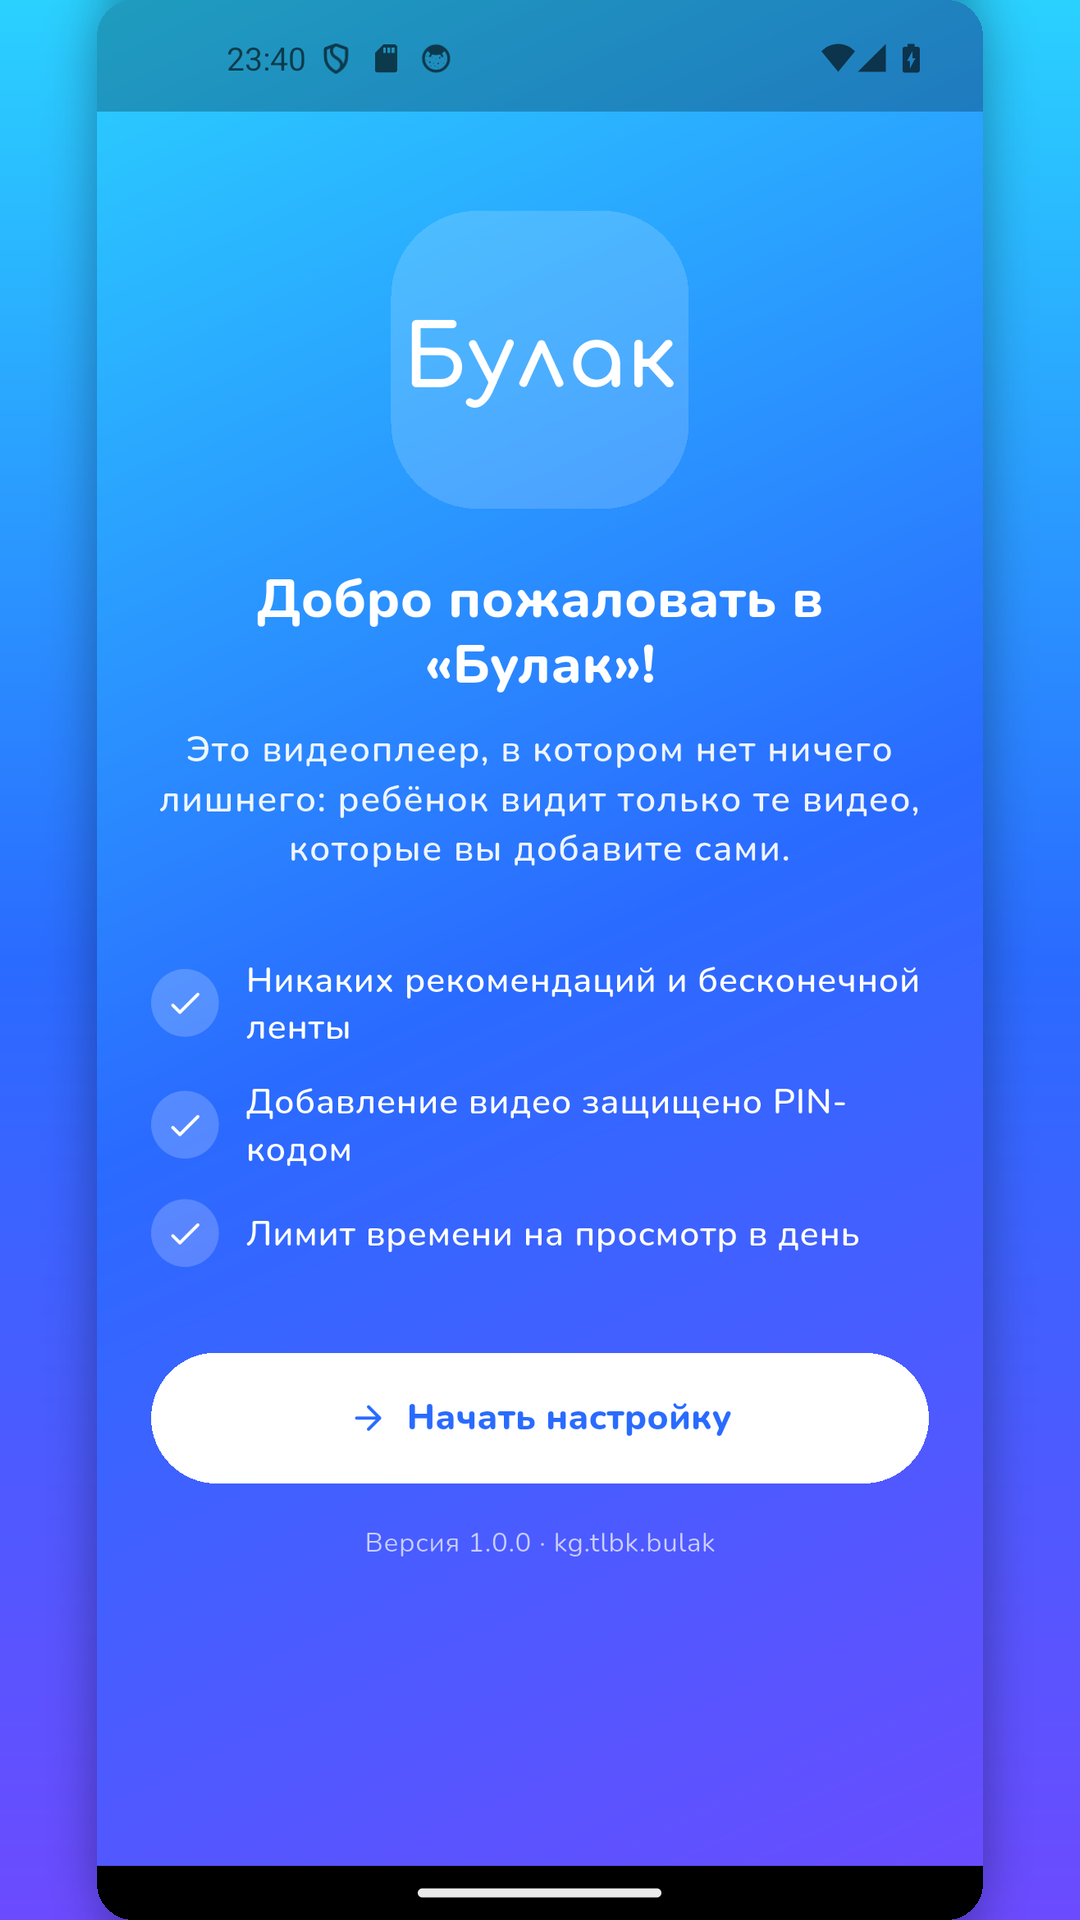
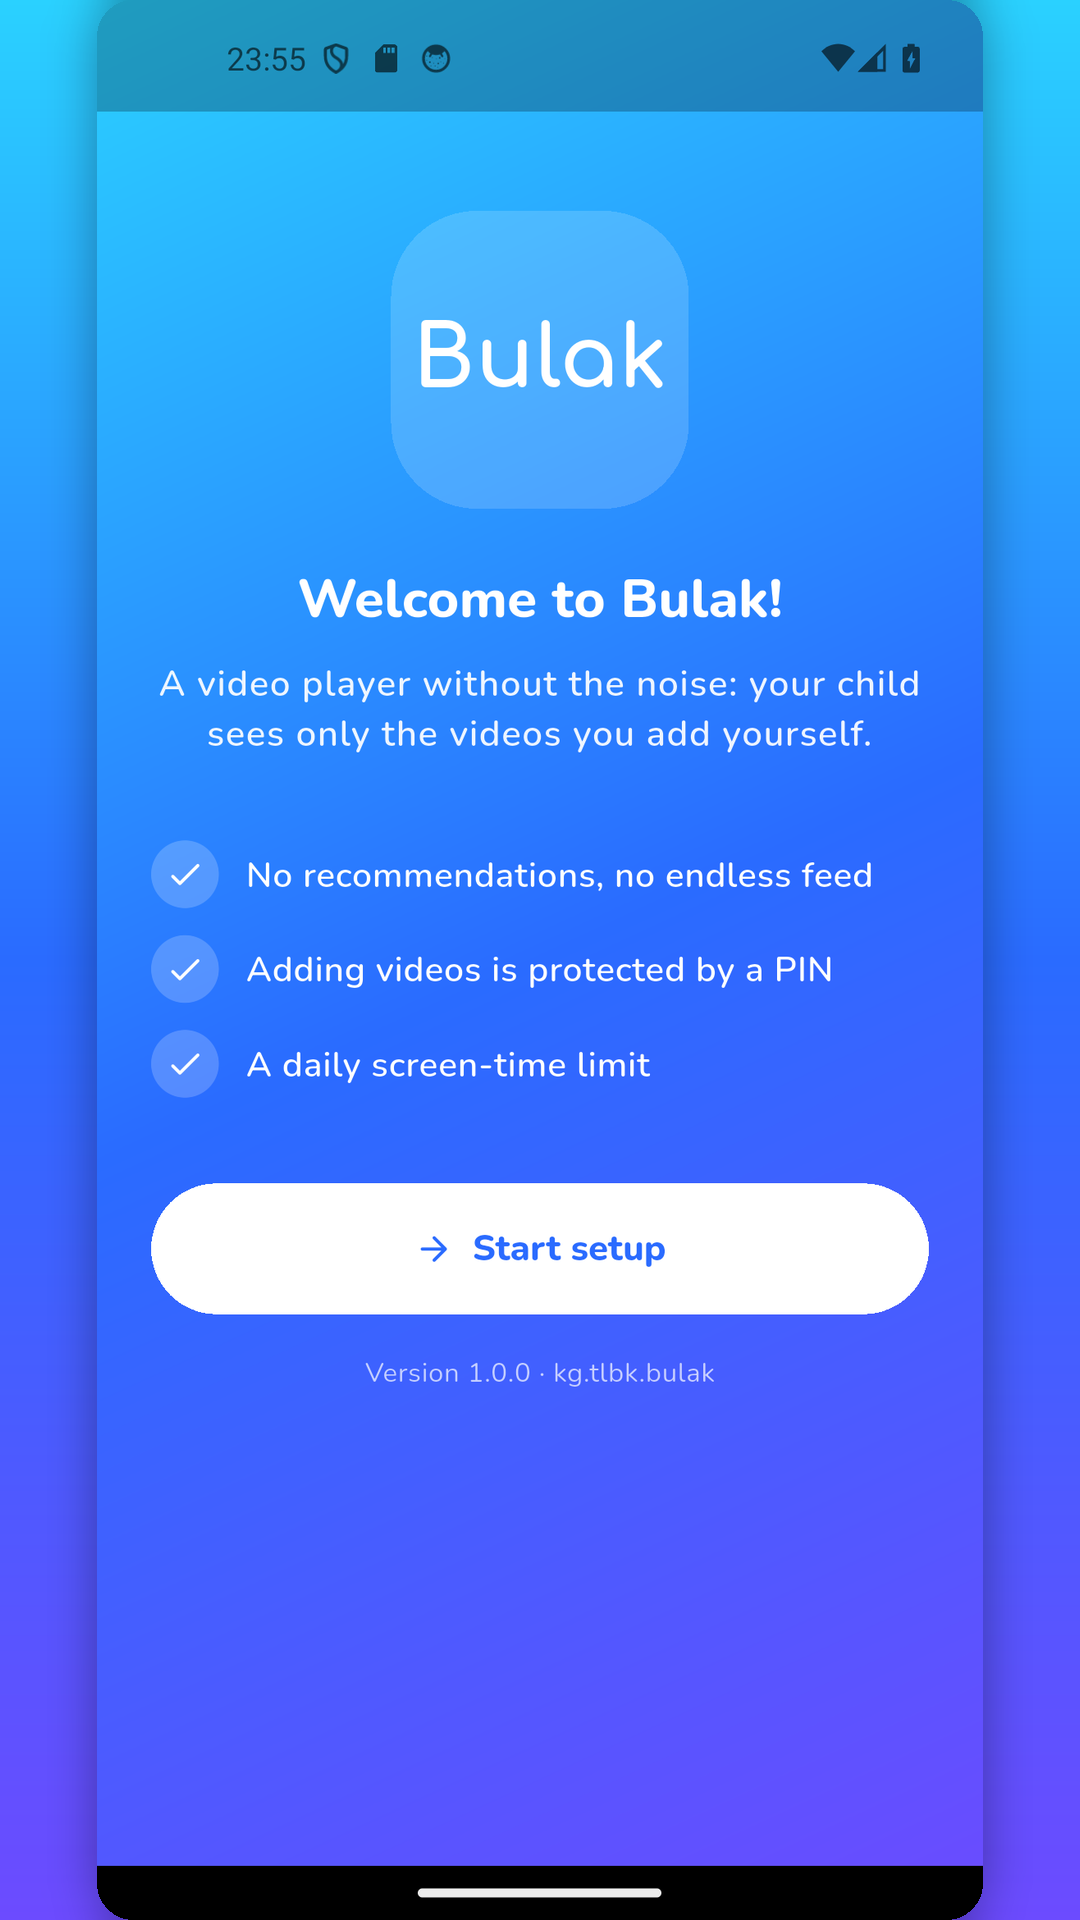
feat: скриншоты для магазинов и локализация минут
Сняты настоящие экраны приложения на эмуляторе (RU и EN), из них собраны
наборы для Google Play (1080x1920) и App Store (1290x2796) — по 8 кадров.
Инструменты съёмки лежат в tools/screenshots.

Заодно исправлена последняя строка без перевода: подписи минут на экране
лимита времени показывались как «мин» и в английском интерфейсе.

Changed region(s): [[0.1222, 0.2812, 0.8556, 0.8125], [0.3667, 0.1562, 0.6111, 0.2188]]

diff --git a/lib/ui/parent/time_limit_page.dart b/lib/ui/parent/time_limit_page.dart
@@ -74,7 +74,9 @@ class TimeLimitPage extends StatelessWidget {
                     for (var index = 0; index < options.length; index++)
                       ChoiceChip(
                         label: Text(
-                          options[index] == 0 ? '∞' : '${options[index]} мин',
+                          options[index] == 0
+                              ? '∞'
+                              : strings.minutesShort(options[index]),
                         ),
                         selected: index == currentIndex,
                         onSelected: (_) =>
@@ -115,8 +117,10 @@ class TimeLimitPage extends StatelessWidget {
                 Text(
                   settings.hasDailyLimit
                       ? '${(settings.watchedSecondsToday / 60).floor()} / '
-                            '${settings.dailyLimitMinutes} мин'
-                      : '${(settings.watchedSecondsToday / 60).floor()} мин',
+                            '${strings.minutesShort(settings.dailyLimitMinutes)}'
+                      : strings.minutesShort(
+                          (settings.watchedSecondsToday / 60).floor(),
+                        ),
                   style: theme.textTheme.bodyMedium,
                 ),
                 if (settings.isLimitReached) ...[

diff --git a/lib/core/l10n/app_strings.dart b/lib/core/l10n/app_strings.dart
@@ -323,6 +323,9 @@ class AppStrings {
   String timeLimitMinutes(int minutes) => _isEn
       ? '$minutes minutes a day'
       : '$minutes ${plural(minutes, 'минута', 'минуты', 'минут')} в день';
+
+  /// Короткая подпись «30 мин» / «30 min» — для кнопок и счётчиков.
+  String minutesShort(int minutes) => _isEn ? '$minutes min' : '$minutes мин';
   String get timeLimitTodayUsed =>
       _pick('Сегодня просмотрено', 'Watched today');
   String get timeLimitResetToday =>

diff --git a/tools/screenshots/seed_emulator.py b/tools/screenshots/seed_emulator.py
@@ -19,6 +19,7 @@ text` невозможно — эта команда понимает тольк
 from __future__ import annotations
 
 import json
+import re
 import subprocess
 import sys
 from pathlib import Path
@@ -41,32 +42,31 @@ ADB = str(
 )
 
 # Коллекции, которые должны появиться в приложении.
-COLLECTIONS = [
-    {
-        "id": "demo-toons",
-        "title": "Мультики",
-        "emoji": "🧸",
-        "colorIndex": 0,
-        "sortOrder": 0,
-        "createdAt": "2026-09-20T10:00:00.000",
-    },
-    {
-        "id": "demo-music",
-        "title": "Музыка",
-        "emoji": "🎵",
-        "colorIndex": 1,
-        "sortOrder": 1,
-        "createdAt": "2026-09-21T10:00:00.000",
-    },
-    {
-        "id": "demo-favourite",
-        "title": "Любимое",
-        "emoji": "⭐",
-        "colorIndex": 4,
-        "sortOrder": 2,
-        "createdAt": "2026-09-22T10:00:00.000",
-    },
-]
+def collections_for(locale: str) -> list[dict]:
+    titles = (
+        [
+            ("demo-toons", "Мультики", "🧸", 0),
+            ("demo-music", "Музыка", "🎵", 1),
+            ("demo-favourite", "Любимое", "⭐", 4),
+        ]
+        if locale == "ru"
+        else [
+            ("demo-toons", "Cartoons", "🧸", 0),
+            ("demo-music", "Music", "🎵", 1),
+            ("demo-favourite", "Favourites", "⭐", 4),
+        ]
+    )
+    return [
+        {
+            "id": item_id,
+            "title": title,
+            "emoji": emoji,
+            "colorIndex": color,
+            "sortOrder": order,
+            "createdAt": f"2026-09-2{order}T10:00:00.000",
+        }
+        for order, (item_id, title, emoji, color) in enumerate(titles)
+    ]
 
 # Настройки: дневной лимит, чтобы на главной был виден баннер с остатком.
 SETTINGS_EXTRA = {
@@ -95,6 +95,10 @@ def main() -> int:
     # это нужно, чтобы снять экран приветствия.
     reset_onboarding = "--reset-onboarding" in sys.argv
 
+    # --locale en переключает интерфейс на английский — для английского
+    # листинга нужны снимки именно на том языке, который увидит пользователь.
+    locale = "en" if "--locale" in sys.argv and "en" in sys.argv else None
+
     adb("root")
     adb("shell", "am", "force-stop", PACKAGE)
 
@@ -103,32 +107,44 @@ def main() -> int:
         print("Не удалось прочитать настройки приложения. Запустите его один раз.")
         return 1
 
+    def unescape(value: str) -> str:
+        return (
+            value.replace("&quot;", '"')
+            .replace("&apos;", "'")
+            .replace("&lt;", "<")
+            .replace("&gt;", ">")
+            .replace("&amp;", "&")
+        )
+
+    # Читаем все сохранённые значения: список видео и прочие ключи трогать
+    # нельзя, иначе библиотека, собранная вручную, будет потеряна.
+    stored: dict[str, str] = {}
+    for match in re.finditer(
+        r'<string name="flutter\.([^"]+)">(.*?)</string>', raw, re.DOTALL
+    ):
+        stored[match.group(1)] = unescape(match.group(2))
+
     # Достаём текущие настройки, чтобы не потерять PIN-код родителя.
-    start = raw.find(">", raw.find("bulak.settings.v1")) + 1
-    end = raw.find("</string>", start)
-    settings = json.loads(
-        raw[start:end]
-        .replace("&quot;", '"')
-        .replace("&amp;", "&")
-        .replace("&lt;", "<")
-        .replace("&gt;", ">")
-        .replace("&apos;", "'")
-    )
+    settings = json.loads(stored.get("bulak.settings.v1", "{}"))
     settings.update(SETTINGS_EXTRA)
     settings["onboardingCompleted"] = not reset_onboarding
+    if locale is not None:
+        settings["localeCode"] = locale
 
-    def entry(name: str, value: str) -> str:
-        return f'    <string name="flutter.{name}">{escape(value)}</string>'
+    stored["bulak.settings.v1"] = json.dumps(settings, ensure_ascii=False)
+    stored["bulak.collections.v1"] = json.dumps(
+        collections_for(locale or settings.get("localeCode") or "ru"),
+        ensure_ascii=False,
+    )
 
     xml = "\n".join(
         [
             "<?xml version='1.0' encoding='utf-8' standalone='yes' ?>",
             "<map>",
-            entry("bulak.settings.v1", json.dumps(settings, ensure_ascii=False)),
-            entry(
-                "bulak.collections.v1",
-                json.dumps(COLLECTIONS, ensure_ascii=False),
-            ),
+            *[
+                f'    <string name="flutter.{name}">{escape(value)}</string>'
+                for name, value in stored.items()
+            ],
             "</map>",
             "",
         ]

diff --git a/tools/screenshots/build_store_screenshots.py b/tools/screenshots/build_store_screenshots.py
@@ -25,7 +25,6 @@ BULAK_SHOTS (по умолчанию — `screenshots/raw` внутри репо
 
 from __future__ import annotations
 
-import os
 import sys
 from pathlib import Path
 
@@ -37,7 +36,7 @@ for stream in (sys.stdout, sys.stderr):
 
 REPO_ROOT = Path(__file__).resolve().parents[2]
 
-RAW_DIR = Path(os.environ.get("BULAK_SHOTS", REPO_ROOT / "screenshots" / "raw"))
+DEFAULT_RAW_DIR = REPO_ROOT / "screenshots" / "raw"
 
 # Соответствие «имя файла-исходника → подпись под номером в магазине».
 # Порядок в списке — это порядок скриншотов в листинге.
@@ -151,13 +150,19 @@ def ios_resize(raw: Image.Image) -> Image.Image:
 
 
 def main() -> int:
-    if not RAW_DIR.exists():
-        print(f"Не найден каталог с исходными снимками: {RAW_DIR}")
-        print("Снимите экраны эмулятора и положите их туда — см. docs/store/screenshots-plan.md")
-        return 1
+    # Для каждой локали — свой каталог исходников: интерфейс на английском
+    # листинге должен быть английским, а не переведённой картинкой.
+    locales = (
+        ("ru-RU", "ru", DEFAULT_RAW_DIR),
+        ("en-US", "en-US", REPO_ROOT / "screenshots" / "raw-en"),
+    )
 
     created = 0
-    for locale_android, locale_ios in (("ru-RU", "ru"), ("en-US", "en-US")):
+    for locale_android, locale_ios, raw_dir in locales:
+        if not raw_dir.exists():
+            print(f"Нет каталога с исходниками для {locale_android}: {raw_dir}")
+            continue
+
         android_dir = (
             REPO_ROOT
             / "fastlane"
@@ -171,12 +176,10 @@ def main() -> int:
         android_dir.mkdir(parents=True, exist_ok=True)
         ios_dir.mkdir(parents=True, exist_ok=True)
 
-        # Для английской локали используются те же снимки: интерфейс
-        # переключается языком устройства, отдельная съёмка не нужна.
         for index, (filename, _ru_caption, _en_caption) in enumerate(
             SCREENSHOTS, start=1
         ):
-            source = RAW_DIR / filename
+            source = raw_dir / filename
             if not source.exists():
                 print(f"  пропускаю (нет файла): {filename}")
                 continue

diff --git a/fastlane/README.md b/fastlane/README.md
@@ -57,28 +57,32 @@ fastlane/
 Либо примите `docs/store/` за единственный источник правды и копируйте оттуда скриптом.
 Разошедшиеся копии — самая частая причина, по которой в стор уходит старая формулировка.
 
-## Что нужно доложить руками
+## Что уже готово, а что нужно доложить руками
 
-Скрипт подготовил только **текст**. Картинки в репозитории не лежат — их нужно изготовить и положить
-в соответствующие папки (в каждой уже есть `README.md` с точной спецификацией размера и содержания):
+Тексты и **вся обязательная графика** уже лежат в репозитории:
 
-| Что | Куда | Требование |
+| Что | Куда | Готово? |
 |---|---|---|
-| Иконка Play | `metadata/android/<locale>/images/icon/icon.png` | 512 × 512 PNG, без альфа-канала, ≤ 1 МБ |
-| Feature graphic | `metadata/android/<locale>/images/featureGraphic/featureGraphic.png` | 1024 × 500, центр свободен под кнопку видео |
-| Скриншоты телефона | `metadata/android/<locale>/images/phoneScreenshots/1..8.png` | 1080 × 1920, 6–8 штук |
-| Скриншоты 10" планшета | `metadata/android/<locale>/images/tenInchScreenshots/1..6.png` | 1920 × 1200 (или 1600 × 2560) |
-| Скриншоты iOS | `fastlane/screenshots/<locale>/` | iPhone 1320 × 2868 и 1290 × 2796, iPad 2064 × 2752 |
+| Иконка Play | `metadata/android/<locale>/images/icon/icon.png` | ✅ 512 × 512, без альфа-канала, собирается скриптом `tools/icon/build_assets.py` |
+| Feature graphic | `metadata/android/<locale>/images/featureGraphic/featureGraphic.png` | ✅ 1024 × 500, тот же скрипт |
+| Скриншоты телефона | `metadata/android/<locale>/images/phoneScreenshots/01..08.png` | ✅ 1080 × 1920, сняты с реальной сборки, собираются из сырых снимков скриптом `tools/screenshots/build_store_screenshots.py` |
+| Скриншоты iOS | `fastlane/screenshots/<locale>/01..08.png` | ✅ 1290 × 2796 (6,7″), из тех же снимков |
+| Скриншоты 10″ планшета | `metadata/android/<locale>/images/tenInchScreenshots/` | ⬜ нужны снимки планшетного эмулятора |
+| Скриншоты iPad | `fastlane/screenshots/<locale>/` | ⬜ нужны снимки iPad-симулятора |
 
-Скриншоты снимаются **с реальной сборки 1.0.0**, подписи накладываются в графическом редакторе.
+Русская и английская версии скриншотов сняты с интерфейса на соответствующем языке.
+Переснять: положить новые снимки экрана в `screenshots/raw/` (русские) и `screenshots/raw-en/`
+(английские) и запустить `python tools/screenshots/build_store_screenshots.py`.
+Данные для съёмки (коллекции, лимит времени) кладутся на эмулятор скриптом
+`tools/screenshots/seed_emulator.py`.
+
 Полный план кадров, подписи RU/EN, палитра и список запрещённого — в `docs/store/screenshots-plan.md`
-и `docs/store/google-play/store-assets.md`. 7" планшетные скриншоты Play считает желательными
-(папка в формате supply — `images/sevenInchScreenshots/`), в этом наборе они не заведены.
+и `docs/store/google-play/store-assets.md`.
 
 ## Проверка перед загрузкой
 
 - [ ] Повторная проверка длин (внешним скриптом) подтверждает: ни один текстовый файл не превышает лимит магазина.
 - [ ] Все файлы в UTF-8 **без BOM**, перевод строки в конце файла.
 - [ ] В `full_description.txt` и `description.txt` нет Markdown: ни `#`, ни `**`, ни `- ` в начале строки.
-- [ ] Картинки разложены по папкам и совпадают с реальной сборкой.
+- [ ] Скриншоты совпадают с реальной сборкой (после правок интерфейса пересобрать их).
 - [ ] Правки внесены и в `docs/store/...`, и в `fastlane/...`.

diff --git a/docs/store/screenshots-plan.md b/docs/store/screenshots-plan.md
@@ -1,5 +1,16 @@
 # План скриншотов для Google Play и App Store
 
+> **Статус: снимки уже сделаны и лежат в репозитории.**
+>
+> Готовые файлы:
+> * Google Play — `fastlane/metadata/android/{ru-RU,en-US}/images/phoneScreenshots/01.png` … `08.png` (1080 × 1920, 8 кадров);
+> * App Store — `fastlane/screenshots/{ru,en-US}/01.png` … `08.png` (1290 × 2796).
+>
+> Русская и английская версии сняты с интерфейса на соответствующем языке: английский листинг показывает английский интерфейс, а не переведённую картинку.
+> Пересобрать скриншоты из новых снимков экрана: `python tools/screenshots/build_store_screenshots.py`
+> (исходники — в `screenshots/raw/` и `screenshots/raw-en/`, они не хранятся в репозитории).
+> Данные для съёмки (коллекции, лимит времени) кладутся на эмулятор скриптом `tools/screenshots/seed_emulator.py`.
+
 Документ описывает 8 кадров, которые снимаются с реальной сборки «Булака» версии 1.0.0 и используются в обоих сторах. Для каждого кадра указано: что на экране, надпись-заголовок на русском и английском, используемые цвета и подсказки по композиции.
 
 ---
